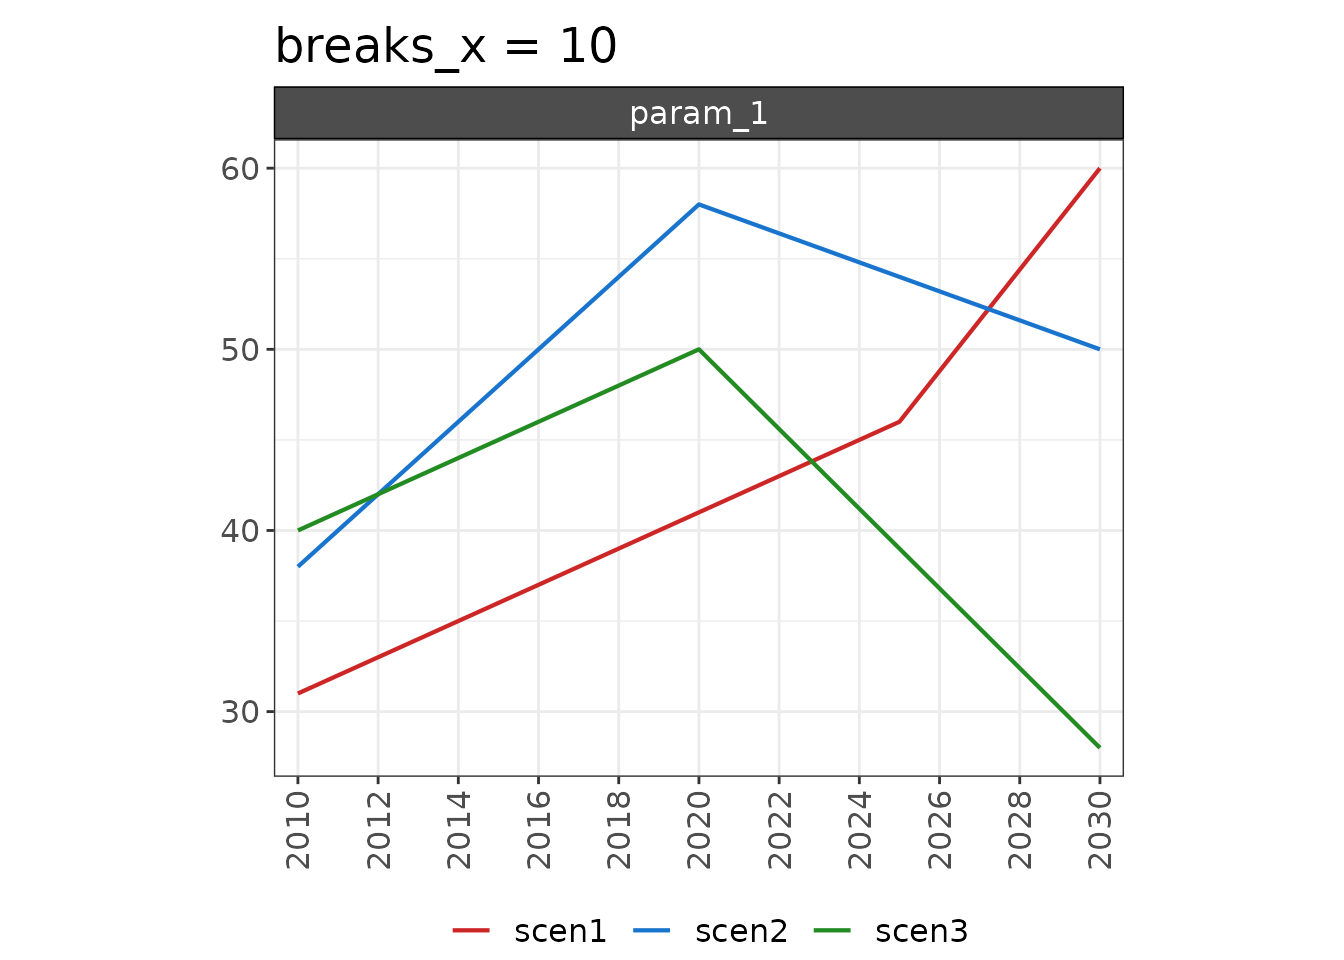
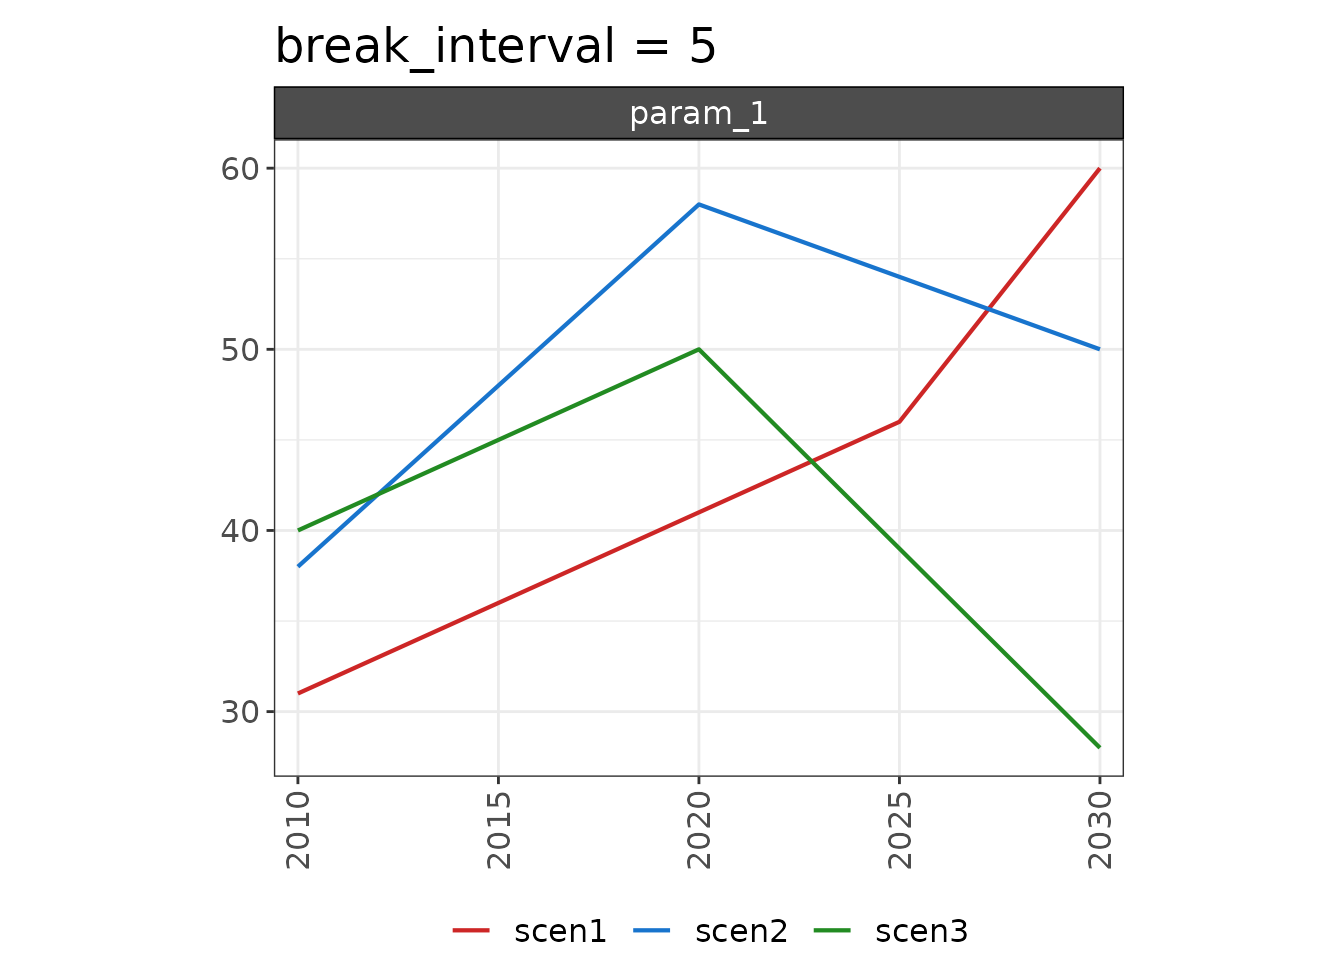
Built site for rchart: 1.0.0@095f071

diff --git a/articles/vignette_userguide.html b/articles/vignette_userguide.html
@@ -716,7 +716,7 @@ brew install imagemagick@6</code></pre>
 <!-------------------------->
 <p align="center">
 <img src="vignetteFigs/divider.png"></p>
-<p>The following examples show two ways to modify the spacing of x-axis breaks. The default displays all breaks, i.e. each x-axis value included in <code>data</code>. The <code>breaks_x</code> argument is used to specify the number of desired breaks, while the <code>break_interval</code> argument sets the interval between breaks, given as a multiple of the interval between data points in <code>data</code>. If both arguments are given, <code>breaks_x</code> overrides <code>break_interval</code>.</p>
+<p>The following example shows how to modify the spacing of x-axis breaks. The default displays all breaks, i.e. each x-axis value included in <code>data</code>. The <code>break_interval</code> argument sets the interval between breaks, given as a multiple of the interval between data points in <code>data</code>.</p>
 <div class="sourceCode" id="cb30"><pre class="downlit sourceCode r">
 <code class="sourceCode R"><span class="kw"><a href="https://rdrr.io/r/base/library.html" class="external-link">library</a></span><span class="op">(</span><span class="va"><a href="https://github.com/JGCRI/rchart" class="external-link">rchart</a></span><span class="op">)</span>
 <span class="va">data</span> <span class="op">=</span> <span class="fu"><a href="https://rdrr.io/r/base/data.frame.html" class="external-link">data.frame</a></span><span class="op">(</span>scenario <span class="op">=</span> <span class="fu"><a href="https://rdrr.io/r/base/c.html" class="external-link">c</a></span><span class="op">(</span><span class="fu"><a href="https://rdrr.io/r/base/rep.html" class="external-link">rep</a></span><span class="op">(</span><span class="st">"scen1"</span>, times <span class="op">=</span> <span class="fl">21</span><span class="op">)</span>,
@@ -729,17 +729,13 @@ brew install imagemagick@6</code></pre>
                             <span class="fu"><a href="https://rdrr.io/r/base/seq.html" class="external-link">seq</a></span><span class="op">(</span><span class="fl">40</span>,<span class="fl">49</span>,length.out <span class="op">=</span> <span class="fl">10</span><span class="op">)</span>, <span class="fu"><a href="https://rdrr.io/r/base/seq.html" class="external-link">seq</a></span><span class="op">(</span><span class="fl">50</span>,<span class="fl">28</span>, length.out <span class="op">=</span> <span class="fl">11</span><span class="op">)</span><span class="op">)</span><span class="op">)</span>
 
 <span class="va">my_chart</span> <span class="op">&lt;-</span> <span class="fu">rchart</span><span class="fu">::</span><span class="fu"><a href="../reference/chart.html">chart</a></span><span class="op">(</span><span class="va">data</span><span class="op">)</span>
-<span class="va">my_chart_breaks_x</span> <span class="op">&lt;-</span> <span class="fu">rchart</span><span class="fu">::</span><span class="fu"><a href="../reference/chart.html">chart</a></span><span class="op">(</span><span class="va">data</span>, breaks_x <span class="op">=</span> <span class="fl">10</span><span class="op">)</span>
-<span class="va">my_chart_break_interval</span> <span class="op">&lt;-</span> <span class="fu">rchart</span><span class="fu">::</span><span class="fu"><a href="../reference/chart.html">chart</a></span><span class="op">(</span><span class="va">data</span>, break_interval <span class="op">=</span> <span class="fl">5</span><span class="op">)</span>
+<span class="va">my_chart_breaks</span> <span class="op">&lt;-</span> <span class="fu">rchart</span><span class="fu">::</span><span class="fu"><a href="../reference/chart.html">chart</a></span><span class="op">(</span><span class="va">data</span>, break_interval <span class="op">=</span> <span class="fl">5</span><span class="op">)</span>
 
 <span class="va">my_chart</span><span class="op">$</span><span class="va">chart_param</span> <span class="op">+</span> <span class="fu">ggplot2</span><span class="fu">::</span><span class="fu"><a href="https://ggplot2.tidyverse.org/reference/labs.html" class="external-link">ggtitle</a></span><span class="op">(</span><span class="st">"Default: All Breaks"</span><span class="op">)</span></code></pre></div>
 <p><img src="vignette_userguide_files/figure-html/unnamed-chunk-15-1.png" width="672"></p>
 <div class="sourceCode" id="cb31"><pre class="downlit sourceCode r">
-<code class="sourceCode R"><span class="va">my_chart_breaks_x</span><span class="op">$</span><span class="va">chart_param</span> <span class="op">+</span> <span class="fu">ggplot2</span><span class="fu">::</span><span class="fu"><a href="https://ggplot2.tidyverse.org/reference/labs.html" class="external-link">ggtitle</a></span><span class="op">(</span><span class="st">"breaks_x = 10"</span><span class="op">)</span></code></pre></div>
+<code class="sourceCode R"><span class="va">my_chart_breaks</span><span class="op">$</span><span class="va">chart_param</span> <span class="op">+</span> <span class="fu">ggplot2</span><span class="fu">::</span><span class="fu"><a href="https://ggplot2.tidyverse.org/reference/labs.html" class="external-link">ggtitle</a></span><span class="op">(</span><span class="st">"break_interval = 5"</span><span class="op">)</span></code></pre></div>
 <p><img src="vignette_userguide_files/figure-html/unnamed-chunk-15-2.png" width="672"></p>
-<div class="sourceCode" id="cb32"><pre class="downlit sourceCode r">
-<code class="sourceCode R"><span class="va">my_chart_break_interval</span><span class="op">$</span><span class="va">chart_param</span> <span class="op">+</span> <span class="fu">ggplot2</span><span class="fu">::</span><span class="fu"><a href="https://ggplot2.tidyverse.org/reference/labs.html" class="external-link">ggtitle</a></span><span class="op">(</span><span class="st">"break_interval = 5"</span><span class="op">)</span></code></pre></div>
-<p><img src="vignette_userguide_files/figure-html/unnamed-chunk-15-3.png" width="672"></p>
 </div>
   </div>
 
